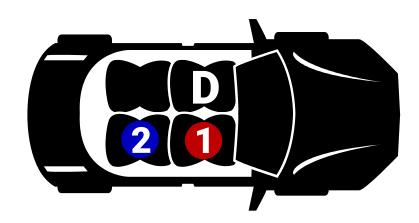
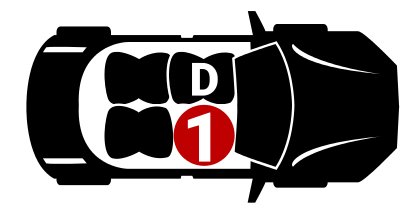
changed CSS, changed car img, commented out section of pauseAndremove

Changed region(s): [[0.0625, 0.0274, 0.9688, 0.9589], [0.875, 0.7123, 0.9375, 0.8219]]

diff --git a/index.js b/index.js
@@ -251,22 +251,22 @@ function addLocations(passengerID){
 
     if(passengerID == 1){
         //add the pick up image on the location.
-        pickup.append("<img class='participant' src='images/d" + passengerID +
+        pickup.append("<img class='p1' src='images/d" + passengerID +
         ".png' alt='Destination'><strong class= 'p1Tag locTag' >Your Pickup!</strong>");
 
         var dropoff = $(".grid div:nth-child(" + endLocation + ")");
-        dropoff.append("<img class='participant'src='images/d1.png' alt='Destination'>"+
+        dropoff.append("<img class='p1'src='images/d1.png' alt='Destination'>"+
         "<strong class= 'p1Tag locTag' >Your Dropoff!</strong>");
     }
     else if(passengerID == 2){
         //add the pick up image on the location.
-        pickup.append("<img class='destination' src='images/d2"+
-        ".png' alt='Destination'><strong class= 'locTag p2Tag' >Pick up Passenger 2</strong>");
+        pickup.append("<img class='pickup' src='images/d2"+
+        "p.png' alt='Destination'><strong class= 'locTag p2Tag pickupTag' >Pick up Passenger 2</strong>");
     }
     else{ //if(passengerID == 3)
         //add the pick up image on the location.
-        pickup.append("<img class='destination' src='images/d3"+
-        ".png' alt='Destination'><strong class= 'locTag p3Tag' >Pick up Passenger 3</strong>");
+        pickup.append("<img class='pickup' src='images/d3"+
+        "p.png' alt='Destination'><strong class= 'locTag p3Tag pickupTag' >Pick up Passenger 3</strong>");
     }
 }
 
@@ -293,11 +293,11 @@ function updateRoute(cell){
             //add the destination image to the screen along with the route.
             if(numStopsReached == 2){
                 var dropoff = $(".grid div:nth-child(" + d1 + ")");
-                dropoff.append("<img class='destination' src='images/d2.png' alt='Destination'><strong class= 'locTag p2Tag' >Drop off Passenger 2</strong>");
+                dropoff.append("<img class='destination' src='images/d2d.png' alt='Destination'><strong class= 'locTag p2Tag' >Drop off Passenger 2</strong>");
             }
             else if(numStopsReached == 3){
                 var dropoff = $(".grid div:nth-child(" + d2 + ")");
-                dropoff.append("<img class='destination' src='images/d3.png' alt='Destination'><strong class= 'locTag p3Tag' >Drop off Passenger 3</strong>");
+                dropoff.append("<img class='destination' src='images/d3d.png' alt='Destination'><strong class= 'locTag p3Tag' >Drop off Passenger 3</strong>");
             }
         }
 
@@ -328,21 +328,21 @@ function updateRoute(cell){
         if(treatment == 2){
             if(numStopsReached == 2){
                 var dropoff = $(".grid div:nth-child(" + d1 + ")");
-                dropoff.append("<img class='destination' src='images/d2.png' alt='Destination'><strong class= 'locTag p2Tag' >Drop off Passenger 2</strong>");
+                dropoff.append("<img class='destination' src='images/d2d.png' alt='Destination'><strong class= 'locTag p2Tag' >Drop off Passenger 2</strong>");
             }
             else if(numStopsReached == 4){
                 var dropoff = $(".grid div:nth-child(" + d2 + ")");
-                dropoff.append("<img class='destination' src='images/d3.png' alt='Destination'><strong class= 'locTag p3Tag' >Drop off Passenger 3</strong>");
+                dropoff.append("<img class='destination' src='images/d3d.png' alt='Destination'><strong class= 'locTag p3Tag' >Drop off Passenger 3</strong>");
             }
         }
         else{ //treatment 3
             if(numStopsReached == 3){
                 var dropoff = $(".grid div:nth-child(" + d2 + ")");
-                dropoff.append("<img class='destination' src='images/d3.png' alt='Destination'><strong class= 'locTag p3Tag' >Drop off Passenger 3</strong>");
+                dropoff.append("<img class='destination' src='images/d3d.png' alt='Destination'><strong class= 'locTag p3Tag' >Drop off Passenger 3</strong>");
             }
             else if(numStopsReached == 4){
                 var dropoff = $(".grid div:nth-child(" + d1 + ")");
-                dropoff.append("<img class='destination' src='images/d2.png' alt='Destination'><strong class= 'locTag p2Tag' >Drop off Passenger 2</strong>");
+                dropoff.append("<img class='destination' src='images/d2d.png' alt='Destination'><strong class= 'locTag p2Tag' >Drop off Passenger 2</strong>");
             }
         }
 
@@ -425,24 +425,22 @@ function animateCar(cell, displacedCells, dir){
             }
 
             //removes previous destination.
-            let children = $(".grid div:nth-child(" + cell + ")").children();
-            var i = dir == "down" ? 1 : 0;
-            for(i ; i < children.length; i++){
-                children[i].remove();
-            }
+            // let children = $(".grid div:nth-child(" + cell + ")").children();
+            // var i = dir == "down" ? 1 : 0;
+            // for(i ; i < children.length; i++){
+            //     children[i].remove();
+            // }
 
             //change the image to have passengers in car.
-            //car0 == numStops = 1, 3, 5
-            //car1 == numStops = 2
             if(treatment == 2){
                 if(numStopsReached == 1 || numStopsReached == 3 || numStopsReached == 5){
-                    document.getElementById("car").src = 'images/car0.png';
-                }
-                else if(numStopsReached == 2){
                     document.getElementById("car").src = 'images/car1.png';
                 }
-                else if(numStopsReached == 4){
+                else if(numStopsReached == 2){
                     document.getElementById("car").src = 'images/car2.png';
+                }
+                else if(numStopsReached == 4){
+                    document.getElementById("car").src = 'images/car3.png';
                 }
                 else{ //last stop 6 i.e car only has driver
                     document.getElementById("car").src = 'images/car.png';
@@ -450,13 +448,13 @@ function animateCar(cell, displacedCells, dir){
             }
             if(treatment == 3){
                 if(numStopsReached == 1 || numStopsReached == 5){
-                    document.getElementById("car").src = 'images/car0.png';
-                }
-                else if(numStopsReached == 2 || numStopsReached == 4){
                     document.getElementById("car").src = 'images/car1.png';
                 }
+                else if(numStopsReached == 2 || numStopsReached == 4){
+                    document.getElementById("car").src = 'images/car2.png';
+                }
                 else if(numStopsReached == 3){
-                    document.getElementById("car").src = 'images/car3.png';
+                    document.getElementById("car").src = 'images/car4.png';
                 }
                 else{ //last stop 6
                     document.getElementById("car").src = 'images/car.png';

diff --git a/index.css b/index.css
@@ -21,12 +21,12 @@ body {
 
 #car {
     height: 50px;
-    width: 85px;
+    width: 88px;
     top: 45px;
     position: relative;
     z-index: 4;
 }
-
+/* the horizontal route */
 .majorRoute {
     height: 7px;
     position: relative;
@@ -37,7 +37,7 @@ body {
     bottom: 7px;
     opacity: 0.9;
 }
-
+/* the road for up/down */
 .minorRoute {
     height: 30px;
     width: 16px;
@@ -51,8 +51,8 @@ body {
     border: none !important;
     display: none;
 }
-
-.destination {
+/* pickup circle images */
+.pickup {
     height: 20px;
     width: 20px;
     margin-top: 60px;
@@ -60,8 +60,17 @@ body {
     z-index: 1;
     position: relative;
 }
+/* destination flag imgs */
+.destination {
+    height: 45px;
+    width: 50px;
+    margin-top: 55px;
+    margin-left: 20px;
+    z-index: 1;
+    position: relative;
+}
 
-.participant {
+.p1 {
     height: 45px;
     width: 50px;
     z-index: 1;
@@ -69,7 +78,7 @@ body {
     text-align:center;
     margin-top: 15px;
 }
-
+/* the description tag of location imgs */
 .locTag {
     border: none !important;
     position: relative;
@@ -89,6 +98,10 @@ body {
 
 .p3Tag {
     color: #007F00;
+}
+/* placing the tag above the pickup img for p2, p3 */
+.pickupTag {
+    bottom: 65px;
 }
 
 
